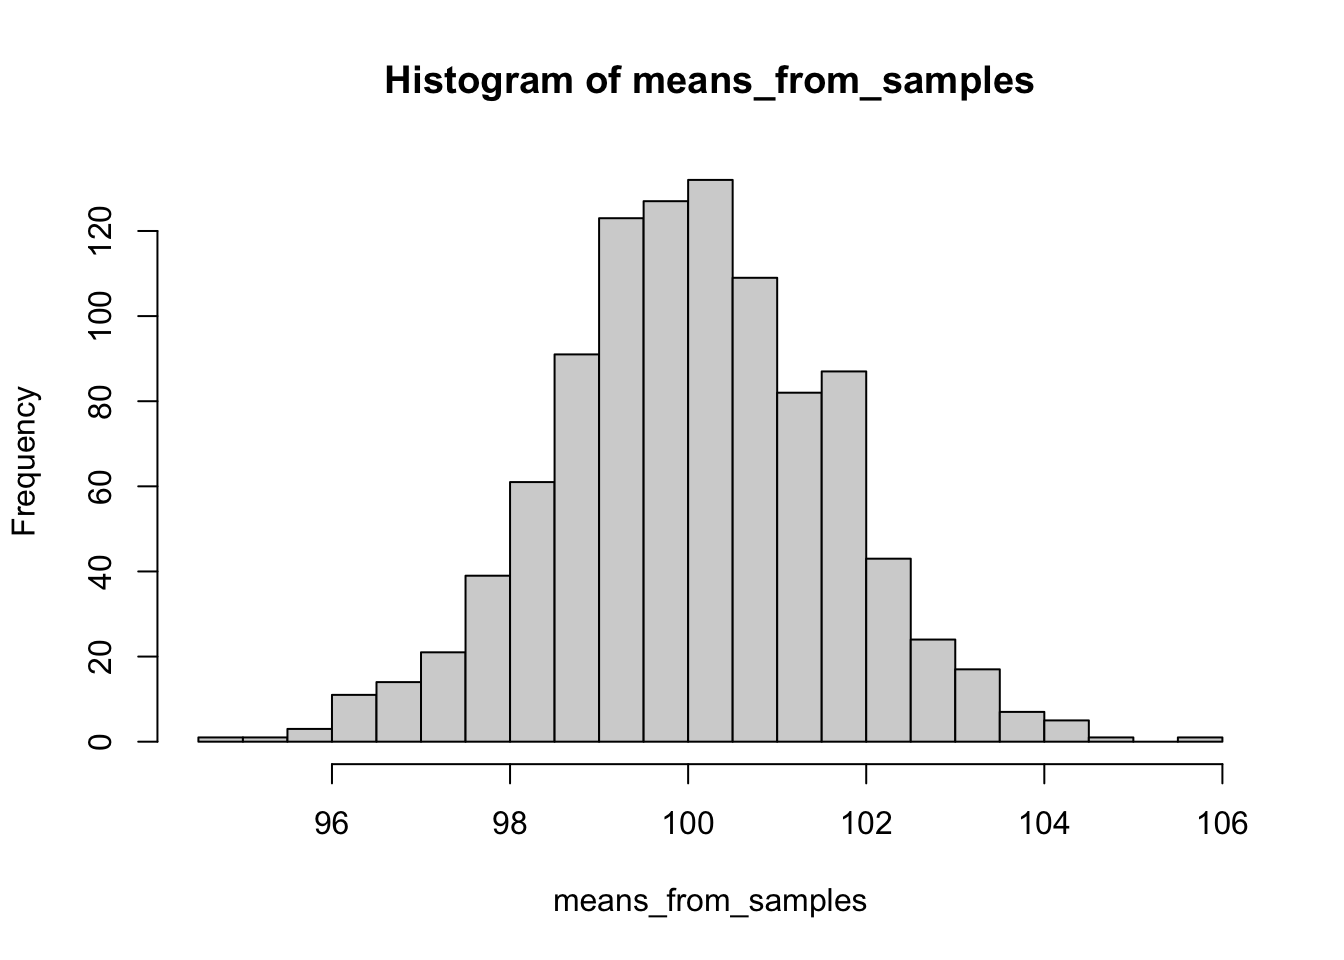
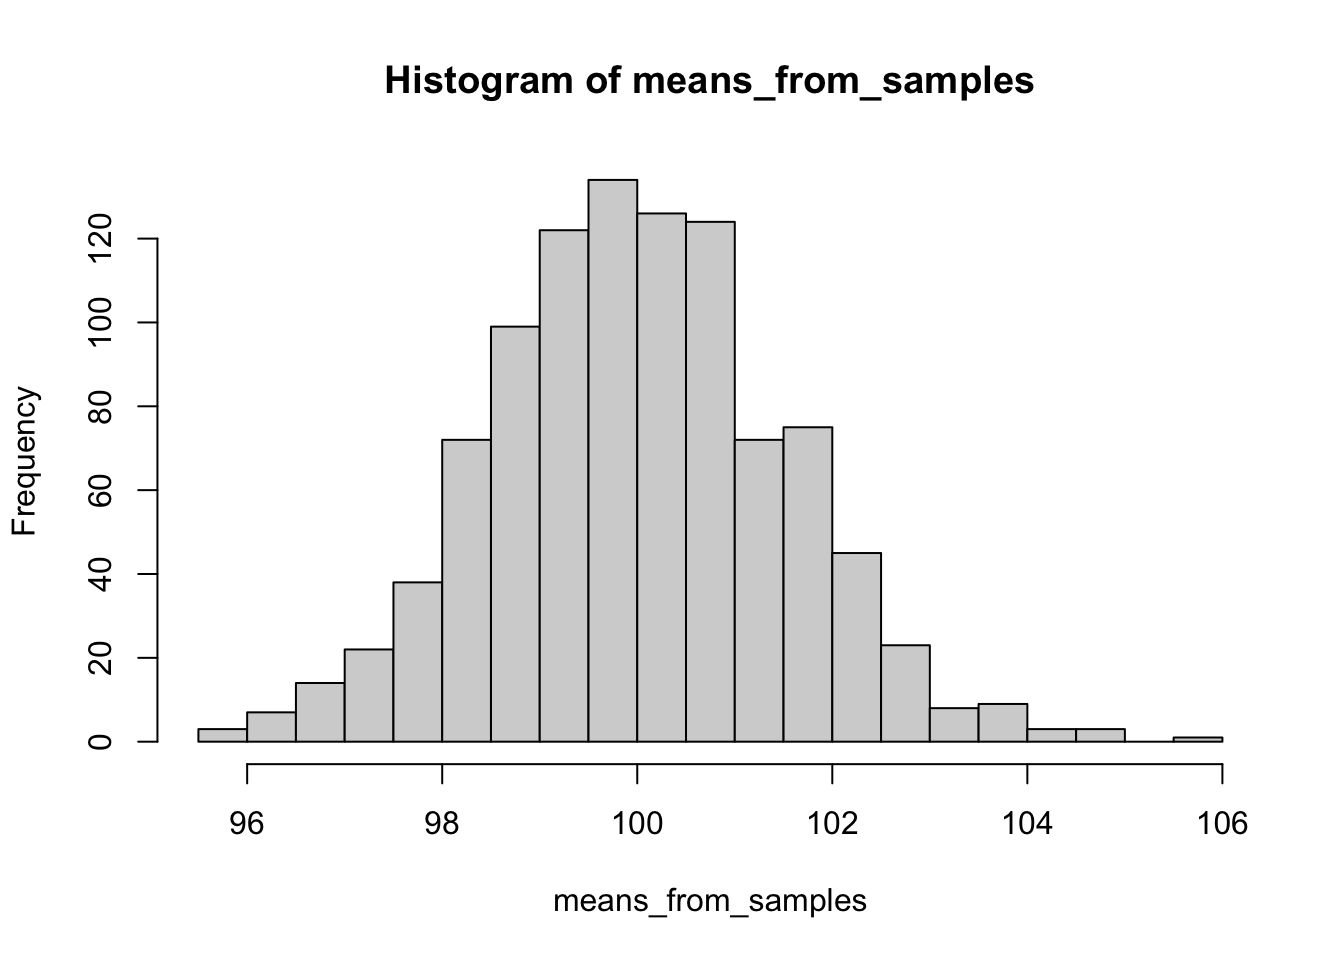
ddd

diff --git a/docs/intervals.html b/docs/intervals.html
@@ -203,7 +203,7 @@ code span.wa { color: #60a0b0; font-weight: bold; font-style: italic; } /* Warni
 <ul>
 <li class="chapter" data-level="8.1" data-path="intervals.html"><a href="intervals.html#clt"><i class="fa fa-check"></i><b>8.1</b> Центральная предельная теорема</a></li>
 <li class="chapter" data-level="8.2" data-path="intervals.html"><a href="intervals.html#standart_error"><i class="fa fa-check"></i><b>8.2</b> Стандартная ошибка среднего</a></li>
-<li class="chapter" data-level="8.3" data-path="intervals.html"><a href="intervals.html#доверительный-интервал"><i class="fa fa-check"></i><b>8.3</b> Доверительный интервал</a></li>
+<li class="chapter" data-level="8.3" data-path="intervals.html"><a href="intervals.html#ci"><i class="fa fa-check"></i><b>8.3</b> Доверительный интервал</a></li>
 </ul></li>
 <li class="chapter" data-level="9" data-path="inference.html"><a href="inference.html"><i class="fa fa-check"></i><b>9</b> Статистический вывод</a>
 <ul>
@@ -361,9 +361,9 @@ code span.wa { color: #60a0b0; font-weight: bold; font-style: italic; } /* Warni
 &gt; Если мы проводим много одинаковых исследований, то выборочные средние этих исследований будут распределены нормально.</p>
 <p><img src="StatsForDA_files/figure-html/unnamed-chunk-6-1.png" width="672" /></p>
 <div class="sourceCode" id="cb1"><pre class="sourceCode r"><code class="sourceCode r"><span id="cb1-1"><a href="intervals.html#cb1-1" tabindex="-1"></a><span class="fu">mean</span>(means_from_samples)</span></code></pre></div>
-<pre><code>## [1] 100.0477</code></pre>
+<pre><code>## [1] 100.0056</code></pre>
 <div class="sourceCode" id="cb3"><pre class="sourceCode r"><code class="sourceCode r"><span id="cb3-1"><a href="intervals.html#cb3-1" tabindex="-1"></a><span class="fu">sd</span>(means_from_samples)</span></code></pre></div>
-<pre><code>## [1] 1.557376</code></pre>
+<pre><code>## [1] 1.507749</code></pre>
 <p>Стандартное отклонение распределение выборочных срених называется <strong>стандартной ошибкой среднего (standard error of the mean (s.e.m. или se)</strong> и вычисляется по формуле <span class="math inline">\(\sigma_{\overline{x}}= \frac{\sigma} {\sqrt{n}}\)</span> или, используя выборочное стандартное отклонение по одной выборке <span class="math inline">\(s_{\overline{x}}= \frac{s} {\sqrt{n}}\)</span></p>
 <p>Визуализация принципов работы
 <a href="https://gallery.shinyapps.io/CLT_mean/" class="uri">https://gallery.shinyapps.io/CLT_mean/</a></p>
@@ -372,8 +372,8 @@ code span.wa { color: #60a0b0; font-weight: bold; font-style: italic; } /* Warni
 <h2><span class="header-section-number">8.2</span> Стандартная ошибка среднего<a href="intervals.html#standart_error" class="anchor-section" aria-label="Anchor link to header"></a></h2>
 <p><span class="math inline">\(se = \frac{\sigma}{\sqrt{n}} = \frac{sd}{\sqrt{n}}\)</span></p>
 </div>
-<div id="доверительный-интервал" class="section level2 hasAnchor" number="8.3">
-<h2><span class="header-section-number">8.3</span> Доверительный интервал<a href="intervals.html#доверительный-интервал" class="anchor-section" aria-label="Anchor link to header"></a></h2>
+<div id="ci" class="section level2 hasAnchor" number="8.3">
+<h2><span class="header-section-number">8.3</span> Доверительный интервал<a href="intervals.html#ci" class="anchor-section" aria-label="Anchor link to header"></a></h2>
 <p>Мы рассмотрели описательные статистики: меры центральной тенденции и меры вариативности переменной. Этоо были тоочечные оценки: мы используем эти величины, чтобы описать наши данные, перейти от таблички с одному или нескольким числам. Помимо точечных оценок используются также интервальные – если мы хотим получить не конкретное число, а интервал, в котором зато точно будет содержаться интересующий нас параметр.</p>
 <p>Доверительный интервал – процент выборок из генеральной совокупности, интервальные оценки которых будут содержать популяционное среднее.</p>
 <p><a href="https://rpsychologist.com/d3/ci/" class="uri">https://rpsychologist.com/d3/ci/</a></p>
@@ -384,6 +384,9 @@ code span.wa { color: #60a0b0; font-weight: bold; font-style: italic; } /* Warni
 <li><span class="math inline">\(95\%: \pm 2 \times \mathrm{se} \\\)</span></li>
 <li><span class="math inline">\(99\%: \pm 3 \times \mathrm{se} \\\)</span></li>
 </ul>
+<blockquote>
+<p>Исследование семейных пар в России (объем выборки составил 100 семейных пар), в которых есть дети подросткового возраста, показало, что те пары, где отец и мать работают полный рабочий день, они проводят со своими детьми в среднем 15 часов свободного времени в неделю. Согласно данным проведенного исследования, стандартное отклонение оказалось равным 4,5 (ч). Можно ли на уровне доверия 0,99 утверждать, что в семьях, в которых работают и отец, и мать, в среднем в течение недели родители проводят с детьми подросткового возраста больше 14 часов?</p>
+</blockquote>
 
 </div>
 </div>

diff --git a/docs/404.html b/docs/404.html
@@ -203,7 +203,7 @@ code span.wa { color: #60a0b0; font-weight: bold; font-style: italic; } /* Warni
 <ul>
 <li class="chapter" data-level="8.1" data-path="intervals.html"><a href="intervals.html#clt"><i class="fa fa-check"></i><b>8.1</b> Центральная предельная теорема</a></li>
 <li class="chapter" data-level="8.2" data-path="intervals.html"><a href="intervals.html#standart_error"><i class="fa fa-check"></i><b>8.2</b> Стандартная ошибка среднего</a></li>
-<li class="chapter" data-level="8.3" data-path="intervals.html"><a href="intervals.html#доверительный-интервал"><i class="fa fa-check"></i><b>8.3</b> Доверительный интервал</a></li>
+<li class="chapter" data-level="8.3" data-path="intervals.html"><a href="intervals.html#ci"><i class="fa fa-check"></i><b>8.3</b> Доверительный интервал</a></li>
 </ul></li>
 <li class="chapter" data-level="9" data-path="inference.html"><a href="inference.html"><i class="fa fa-check"></i><b>9</b> Статистический вывод</a>
 <ul>

diff --git a/docs/normdist.html b/docs/normdist.html
@@ -203,7 +203,7 @@ code span.wa { color: #60a0b0; font-weight: bold; font-style: italic; } /* Warni
 <ul>
 <li class="chapter" data-level="8.1" data-path="intervals.html"><a href="intervals.html#clt"><i class="fa fa-check"></i><b>8.1</b> Центральная предельная теорема</a></li>
 <li class="chapter" data-level="8.2" data-path="intervals.html"><a href="intervals.html#standart_error"><i class="fa fa-check"></i><b>8.2</b> Стандартная ошибка среднего</a></li>
-<li class="chapter" data-level="8.3" data-path="intervals.html"><a href="intervals.html#доверительный-интервал"><i class="fa fa-check"></i><b>8.3</b> Доверительный интервал</a></li>
+<li class="chapter" data-level="8.3" data-path="intervals.html"><a href="intervals.html#ci"><i class="fa fa-check"></i><b>8.3</b> Доверительный интервал</a></li>
 </ul></li>
 <li class="chapter" data-level="9" data-path="inference.html"><a href="inference.html"><i class="fa fa-check"></i><b>9</b> Статистический вывод</a>
 <ul>
